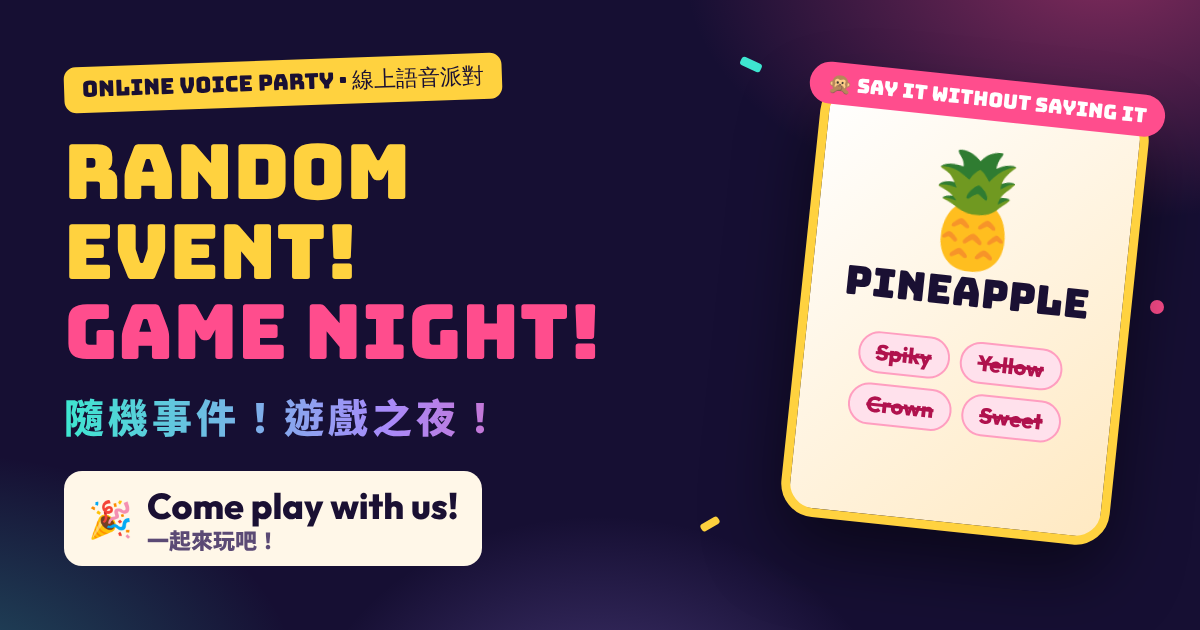
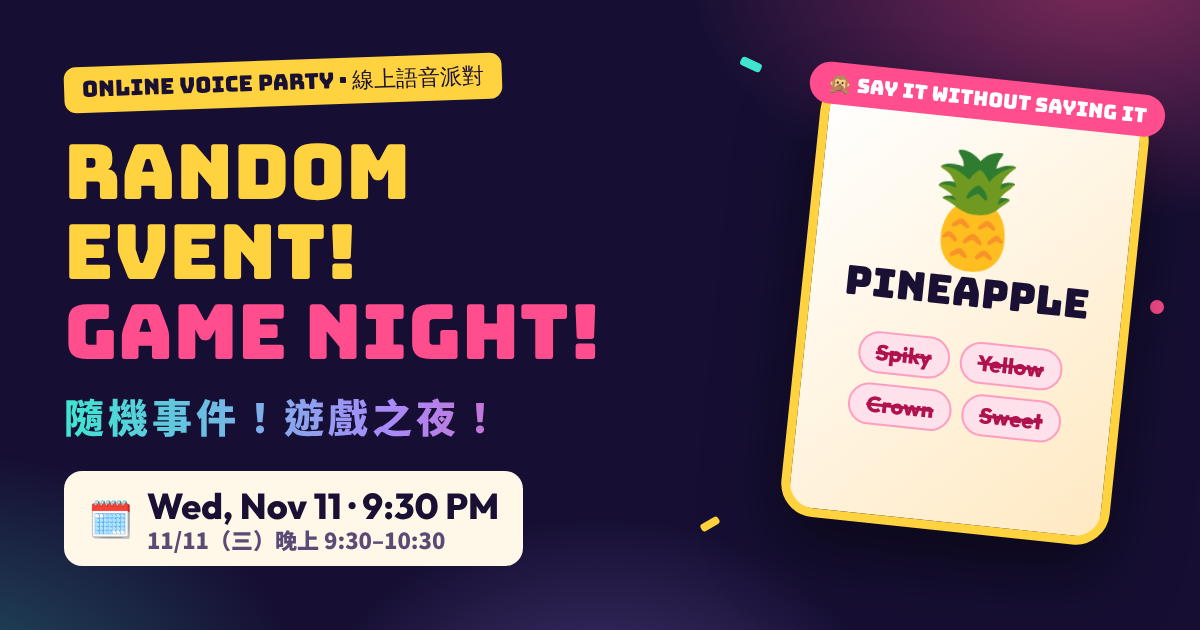
Game Night page: bring back date and calendar, now Wed Nov 11, 9:30-10:30 PM
Claude-Session: https://claude.ai/code/session_01CcvXvG6UwJ1oJkEE7Gp3BL

Changed region(s): [[0.0617, 0.7238, 0.4625, 0.9048]]

diff --git a/game-night.html b/game-night.html
@@ -4,19 +4,19 @@
 <meta charset="UTF-8">
 <meta name="viewport" content="width=device-width, initial-scale=1.0">
 <title>Random Event! Game Night! 隨機事件！遊戲之夜！</title>
-<meta name="description" content="An online voice party: Say It Without Saying It. Describe the secret word, but never say the forbidden ones! 線上語音派對：說出來但不能說。">
+<meta name="description" content="Wed, Nov 11 · 9:30–10:30 PM (GMT+8) — an online voice party: Say It Without Saying It. Describe the secret word, but never say the forbidden ones! 11/11（三）晚上 9:30–10:30 線上語音派對。">
 
 <!-- Link previews (LINE, Facebook…). The image is assets/game-night/og.png, 1200×630. -->
 <meta property="og:type" content="website">
 <meta property="og:site_name" content="Random Event! Game Night!">
 <meta property="og:title" content="Random Event! Game Night! 隨機事件！遊戲之夜！">
-<meta property="og:description" content="🙊 Say It Without Saying It — an online voice party: describe the secret word, never say the forbidden ones! 線上語音派對，一起來玩！">
-<meta property="og:image" content="https://livechat-two-alpha.vercel.app/assets/game-night/og.png?v=3">
+<meta property="og:description" content="🗓 Wed, Nov 11 · 9:30 PM — online voice party 🙊 Say It Without Saying It: describe the secret word, never say the forbidden ones! 11/11（三）晚上 9:30 線上語音派對">
+<meta property="og:image" content="https://livechat-two-alpha.vercel.app/assets/game-night/og.png?v=4">
 <meta property="og:image:width" content="1200">
 <meta property="og:image:height" content="630">
 <meta property="og:url" content="https://livechat-two-alpha.vercel.app/game-night.html">
 <meta name="twitter:card" content="summary_large_image">
-<meta name="twitter:image" content="https://livechat-two-alpha.vercel.app/assets/game-night/og.png?v=3">
+<meta name="twitter:image" content="https://livechat-two-alpha.vercel.app/assets/game-night/og.png?v=4">
 <meta name="theme-color" content="#160f33">
 <link rel="apple-touch-icon" href="apple-touch-icon.png">
 
@@ -78,6 +78,7 @@
      ========================================================= */
   .scene { min-height: 100vh; min-height: 100svh; display: flex; align-items: center; padding: calc(var(--nav-h) + 12px) 0 18px; }
   .stage { width: min(1080px, 100% - var(--gutter) * 2); margin: 0 auto; will-change: transform, opacity; transform-origin: 50% 45%; }
+  .center { text-align: center; }
 
   /* Staggered entrance; --rot keeps tilted pieces tilted while they animate. */
   .rv { opacity: 0; filter: blur(6px); transform: rotate(var(--rot, 0deg)) translateY(28px) scale(.98);
@@ -96,6 +97,7 @@
   .tile::before { content: ''; position: absolute; inset: 0 0 auto 0; height: 6px; background: var(--c); }
 
   .cta-row { display: flex; flex-wrap: wrap; gap: 10px; margin-top: calc(var(--u) * 2.4); }
+  .center .cta-row, .final .cta-row { justify-content: center; }
   .btn { display: inline-flex; align-items: center; gap: 10px; padding: 12px 22px; border-radius: 999px; text-decoration: none;
     font-weight: 800; font-size: 1rem; line-height: 1.15; transition: transform .15s, box-shadow .15s; }
   .btn:active { transform: scale(.97); }
@@ -126,6 +128,18 @@
   .hero-sub { margin-top: calc(var(--u) * 1.8); max-width: 520px; font-size: clamp(1rem, calc(var(--u) * 2), 1.2rem); }
   .hero-sub .zh { margin-top: 4px; font-size: .92em; }
   .hero-art svg { display: block; width: 100%; height: auto; max-height: 62vh; overflow: visible; }
+
+  /* --- Date (ticket) --- */
+  .ticket { position: relative; display: grid; grid-template-columns: repeat(3, 1fr); width: min(820px, 100%); margin: 0 auto;
+    color: var(--ink); background: linear-gradient(135deg, #fff7e8, #ffe9c2); border-radius: var(--radius);
+    box-shadow: 0 18px 50px rgba(0,0,0,.35), 0 0 0 4px rgba(255,210,63,.35); }
+  .ticket::before, .ticket::after { content: ''; position: absolute; top: 50%; width: 26px; height: 26px; border-radius: 50%; background: var(--night); transform: translateY(-50%); }
+  .ticket::before { left: -13px; } .ticket::after { right: -13px; }
+  .tk { padding: calc(var(--u) * 3) 12px; }
+  .tk + .tk { border-left: 2px dashed rgba(26,16,51,.2); }
+  .tk .ico { font-size: clamp(1.6rem, calc(var(--u) * 4), 2.4rem); line-height: 1; }
+  .tk .big { margin-top: 6px; font-weight: 900; font-size: clamp(1.25rem, calc(var(--u) * 3.6), 2.2rem); line-height: 1.15; }
+  .tk .small { font-family: 'Noto Sans TC', sans-serif; font-size: .92rem; font-weight: 700; color: #4b3a63; }
 
   /* --- All you need --- */
   .checks { display: grid; grid-template-columns: repeat(4, 1fr); gap: 18px; }
@@ -204,6 +218,9 @@
     background: linear-gradient(135deg, #ff4d8d, #a855f7 55%, #3ee6d0); box-shadow: 0 24px 60px rgba(255,77,141,.3); }
   .final h2 { font-family: 'Bungee', sans-serif; font-weight: 400; font-size: clamp(1.7rem, calc(var(--u) * 5.4), 3.2rem); line-height: 1.08; text-shadow: 0 4px 0 rgba(0,0,0,.15); }
   .final .zh-big { margin-top: 8px; font-family: 'Noto Sans TC', sans-serif; font-weight: 900; font-size: clamp(1.15rem, calc(var(--u) * 3), 1.7rem); }
+  .final .when { margin-top: 12px; font-weight: 800; font-size: 1.1rem; }
+  .final .when .soft { display: block; margin-top: 2px; font-size: .9em; opacity: .85; }
+  .final .btn-main { color: var(--ink); background: var(--yellow); box-shadow: 0 10px 28px rgba(0,0,0,.25); }
   .final .note { margin-top: 12px; font-weight: 700; font-size: .95rem; }
   .final .note .zh { color: #fff; opacity: .9; }
 
@@ -245,6 +262,13 @@
     .hero-sub { margin-top: 12px; font-size: 1rem; }
     .hero .cta-row { margin-top: 16px; }
     .hero .btn { padding: 11px 10px; font-size: .95rem; gap: 6px; }
+
+    .ticket { grid-template-columns: 1fr; }
+    .ticket::before, .ticket::after { top: 33.3%; }
+    .tk { display: grid; grid-template-columns: 44px 1fr; align-items: center; gap: 10px; padding: 14px 18px; text-align: left; }
+    .tk .ico { grid-row: span 2; text-align: center; }
+    .tk .big { margin: 0; }
+    .tk + .tk { border-left: 0; border-top: 2px dashed rgba(26,16,51,.2); }
 
     .checks { grid-template-columns: repeat(2, 1fr); gap: 12px; }
     .roles, .scores { grid-template-columns: 1fr; gap: 12px; }
@@ -289,6 +313,7 @@
     <a class="brand" href="#top"><span class="logo">🙊</span><span class="txt">Game Night</span></a>
     <div class="navlinks" id="navlinks">
       <a href="#top">Home<small>首頁</small></a>
+      <a href="#when">Date<small>日期</small></a>
       <a href="#need">Bring<small>準備</small></a>
       <a href="#game">The Game<small>遊戲</small></a>
       <a href="#roles">Roles<small>角色</small></a>
@@ -296,7 +321,7 @@
       <a href="#score">Scoring<small>計分</small></a>
       <a href="#join">Join<small>參加</small></a>
     </div>
-    <a class="navcta" href="#join">I'm in!</a>
+    <a class="navcta" href="#join">Save the date</a>
   </div>
   <div class="progress" id="progress"></div>
 </nav>
@@ -308,8 +333,8 @@
       <span class="eyebrow rv in"><span class="dot"></span>Online voice party · <span class="zh">線上語音派對</span></span>
       <h1 class="title-en rv in" style="--i:1"><span class="a">Random Event!</span><span class="b">Game Night!</span></h1>
       <div class="title-zh rv in" style="--i:2">隨機事件！遊戲之夜！</div>
-      <p class="hero-sub rv in" style="--i:3">Come play <b>Say It Without Saying It</b> together!
-        <span class="zh">一起來玩「說出來但不能說」！</span></p>
+      <p class="hero-sub rv in" style="--i:3">Wed, Nov 11 · 9:30 PM — play <b>Say It Without Saying It</b> together!
+        <span class="zh">11/11（三）晚上 9:30，一起玩「說出來但不能說」！</span></p>
       <div class="cta-row rv in" style="--i:4">
         <a class="btn btn-main" href="#join">🎉 <span>I'm in!<small>我要參加</small></span></a>
         <a class="btn btn-ghost" href="#game">👇 <span>What is it?<small>這是什麼？</small></span></a>
@@ -369,6 +394,24 @@
 </header>
 
 <main>
+
+<!-- ============ DATE ============ -->
+<section class="scene" id="when">
+  <div class="stage center">
+    <div class="sec-head">
+      <span class="sec-tag rv">SAVE THE DATE</span>
+      <h2 class="rv" style="--i:1">One night. One word. No slips.<span class="zh">一個晚上、一個單字、不能說溜嘴</span></h2>
+    </div>
+    <div class="ticket rv" style="--i:2" role="group" aria-label="Event details 活動資訊">
+      <div class="tk"><div class="ico">🗓</div><div><div class="big">Wed, Nov 11</div><div class="small">11/11（三）</div></div></div>
+      <div class="tk"><div class="ico">🕘</div><div><div class="big">9:30 PM</div><div class="small">晚上 9:30–10:30（GMT+8）</div></div></div>
+      <div class="tk"><div class="ico">🎧</div><div><div class="big">Online · Voice</div><div class="small">線上語音</div></div></div>
+    </div>
+    <div class="cta-row rv" style="--i:3">
+      <a class="btn btn-main" data-calendar href="#when" target="_blank" rel="noopener">📅 <span>Add to calendar<small>加到行事曆</small></span></a>
+    </div>
+  </div>
+</section>
 
 <!-- ============ ALL YOU NEED ============ -->
 <section class="scene" id="need">
@@ -505,8 +548,12 @@
 <section class="scene" id="join">
   <div class="stage">
     <div class="final rv">
-      <h2>See you there!</h2>
-      <div class="zh-big">到時候見，不見不散！</div>
+      <h2>See you Wednesday!</h2>
+      <div class="zh-big">週三晚上，不見不散！</div>
+      <div class="when">🗓 Wed, Nov 11 · 9:30–10:30 PM <span class="soft">11/11（三）晚上 9:30–10:30</span></div>
+      <div class="cta-row">
+        <a class="btn btn-main" data-calendar href="#when" target="_blank" rel="noopener">📅 <span>Add to calendar<small>加到行事曆</small></span></a>
+      </div>
       <p class="note">Game link coming in the group before we start<span class="zh">遊戲連結會在開始前傳到群組</span></p>
     </div>
   </div>
@@ -518,6 +565,20 @@
 
 <script>
 (function () {
+  /* ---- Event details: the one place to change date or time ---- */
+  const EVENT = {
+    title: 'Random Event! Game Night! 隨機事件！遊戲之夜！',
+    details: 'Say It Without Saying It — online voice party game',
+    startUTC: '20261111T133000Z',   // Wed Nov 11, 9:30 PM GMT+8
+    endUTC: '20261111T143000Z',     // 10:30 PM GMT+8
+    location: 'Online',
+  };
+  const calendarURL = 'https://calendar.google.com/calendar/render?' + new URLSearchParams({
+    action: 'TEMPLATE', text: EVENT.title, dates: EVENT.startUTC + '/' + EVENT.endUTC,
+    details: EVENT.details, location: EVENT.location,
+  });
+  document.querySelectorAll('[data-calendar]').forEach(a => { a.href = calendarURL; });
+
   /* ---- Elements ---- */
   const reduce = matchMedia('(prefers-reduced-motion: reduce)').matches;
   const $ = id => document.getElementById(id);
